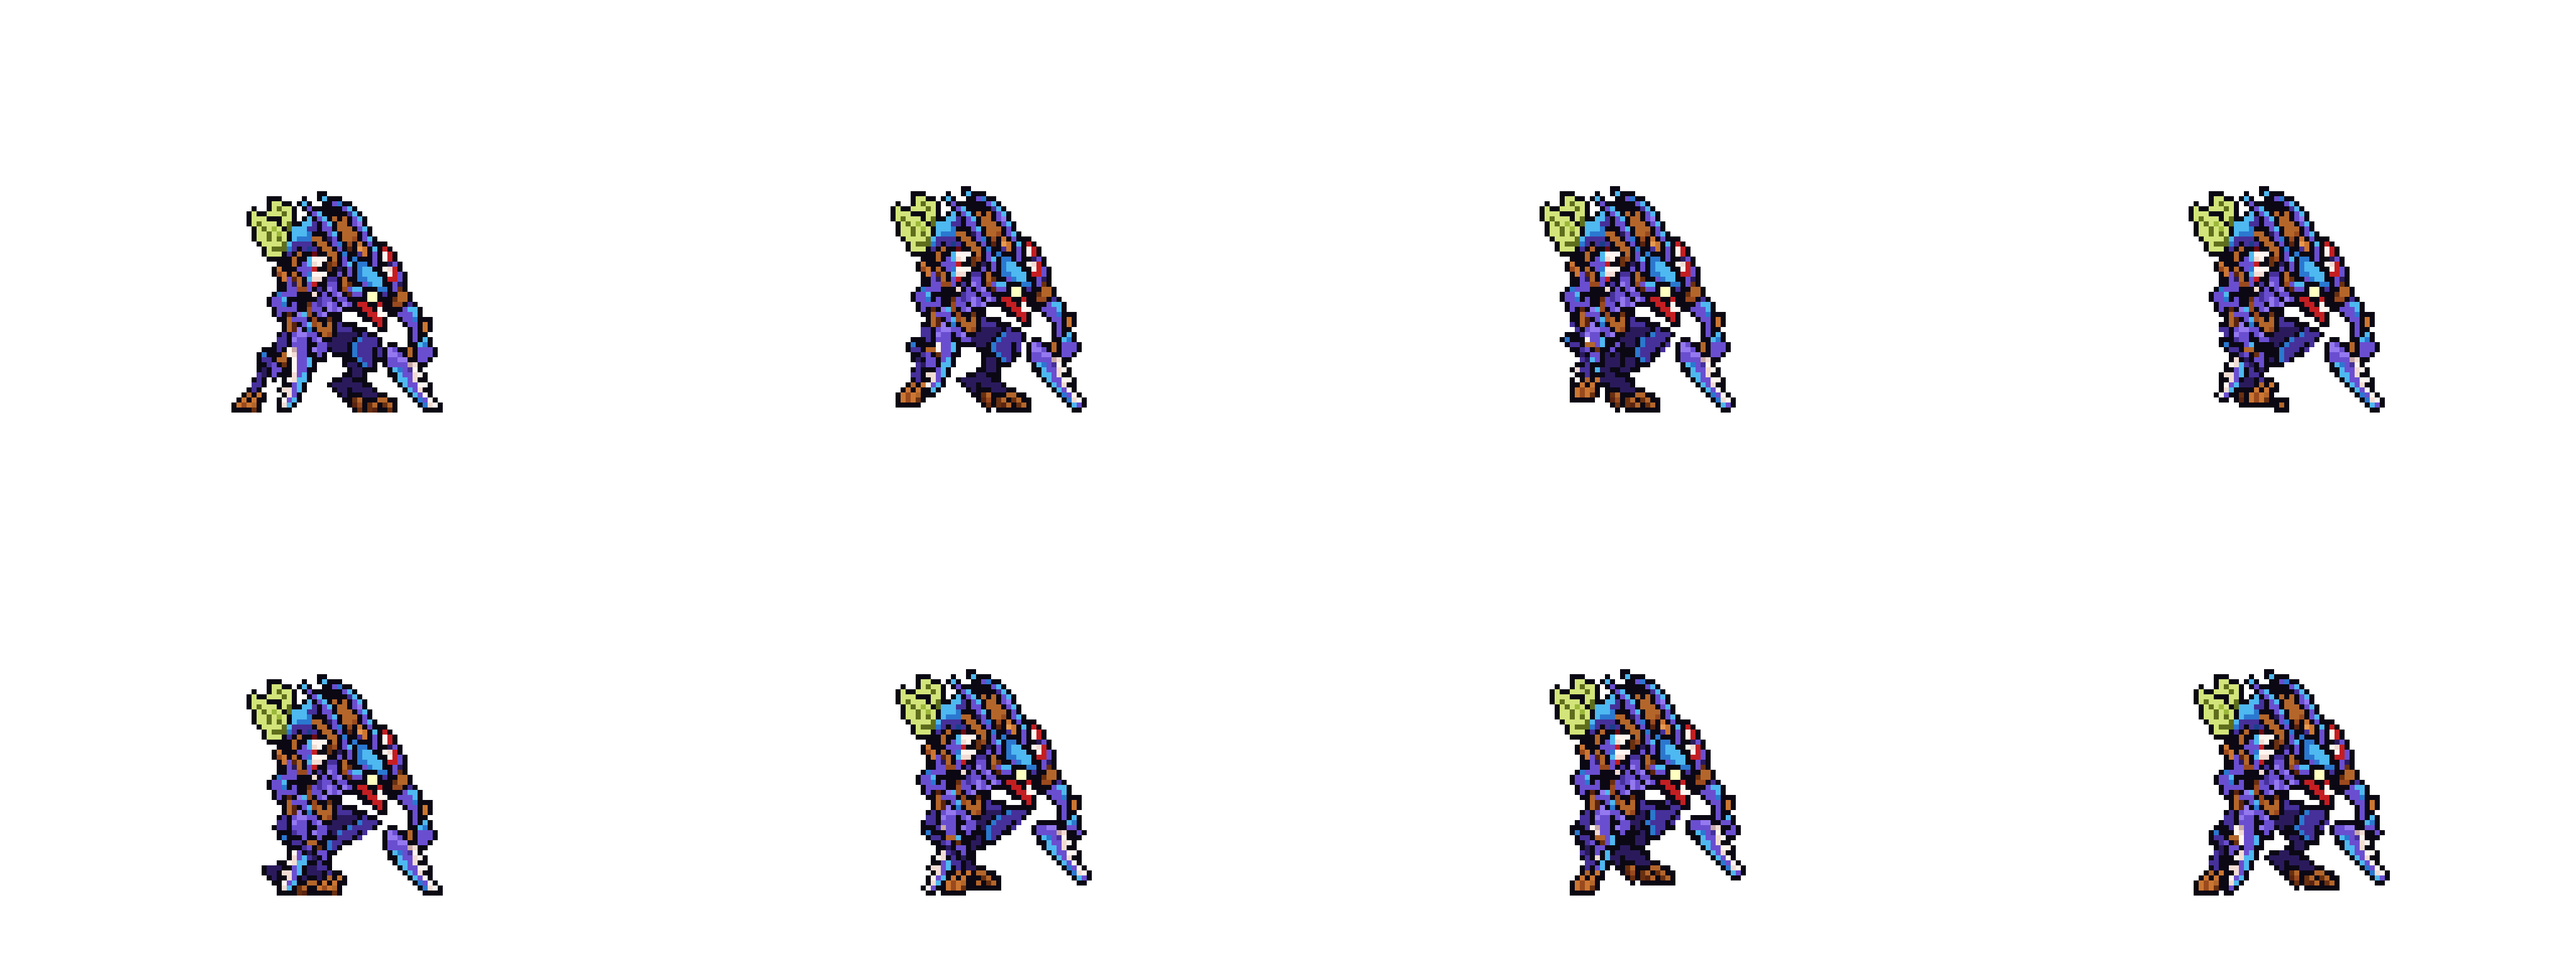
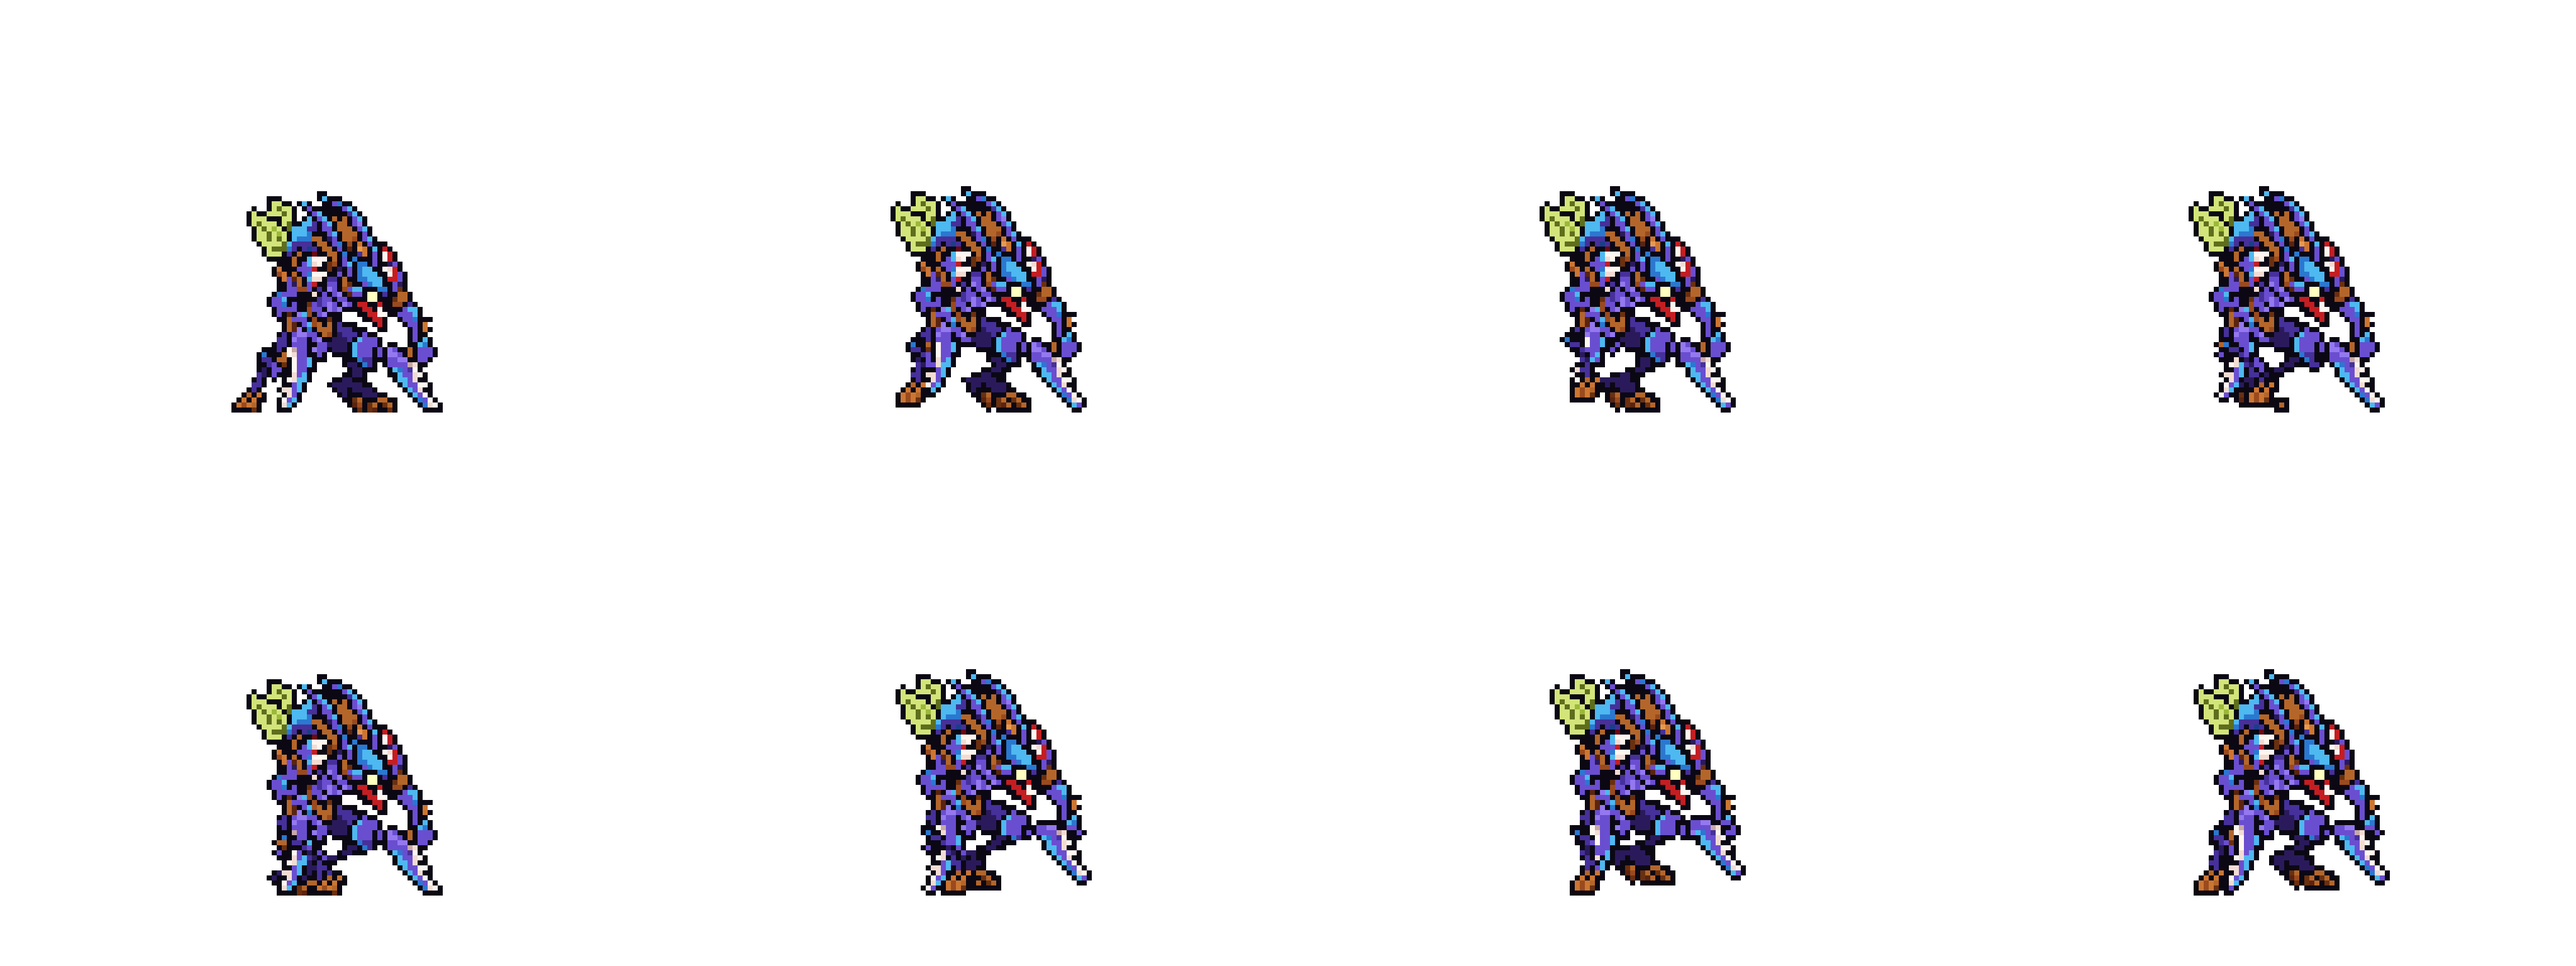
Kha'Zix run: the first run's leg shapes back (the mid leg moves under its knee, the knee stays - 「腿有变形」), only its loose pieces fixed: the arm pixels the mid leg's box took and the stray edge squares now go with their own part; no gap fill

diff --git a/tools/art/fix_khazix_strips.py b/tools/art/fix_khazix_strips.py
@@ -53,7 +53,7 @@ DEAD = ["codex", "codex", ("tilt", 45, -6), ("lying", 1, -8), ("lying", 0, -8), 
 
 # ---- the run (the design's canvas: soles on row 99)
 NEAR_HIP, NEAR_FOOT = 84, 95        # the image-left leg: from its hip (hidden under the body) to the toe claws' rows
-FAR_HIP, FAR_FOOT = 84, 94          # the mid leg, whole from its hip (from row 89 only, it broke as it swung)
+FAR_HIP, FAR_FOOT = 89, 95          # the mid leg from under the knee (the knee stays on the body, as the user saw it)
 CLAW_ROW = 88                       # the claws' parts from this row down lift off the ground
 # per frame: near foot dx, near lift, far foot dx, far lift, back-claw lift, front-claw lift, body bob (rows down)
 STRIDE = [(0, 0, 0, 0, 0, 0, 1), (4, 1, -3, 0, 2, 0, 0), (9, 2, -7, 0, 3, 0, 0), (14, 1, -11, 0, 2, 0, 0),
@@ -89,25 +89,31 @@ TORSO_LOW = 88                      # above this row a square no part holds is t
 
 
 def leg_masks(d):
-    """near (the lit image-left leg), far (the shaded mid leg), back / front (the claws' parts from CLAW_ROW down).
-    The squares under TORSO_LOW that no part holds (outline beside a leg or a claw) go to the part they touch most."""
+    """near (the lit image-left leg), far (the shaded mid leg under its knee), back / front (the claws' parts from
+    CLAW_ROW down): the first run's boxes (the user's 「之前那一版只是腿部有像素缺失」 - their shapes stay), with Codex's
+    exact arm outlines taken out of the leg boxes (the mid leg's box took a piece of the image-right arm along) and the
+    squares under CLAW_ROW that no box held (claw-edge and outline squares that stayed behind as loose pieces when the
+    legs moved) given to the part they touch most."""
     op = d[..., 3] > 0
+    yy, xx = np.mgrid[0:d.shape[0], 0:d.shape[1]]
+    bone = np.zeros(op.shape, bool)
+    for c in BONE:
+        bone |= (d[..., :3] == c).all(-1)
     head = np.asarray(Image.open(HEAD).convert("RGBA"))[..., 3] > 0
     back_arm = _rows(ARM_BACK, op) & ~head
     front_arm = _rows(ARM_FRONT, op) & ~head
-    near = _rows(LEG_LEFT, op) & ~(back_arm | front_arm | head)
-    far = _rows(LEG_MID, op) & ~(back_arm | front_arm | head | near)
-    parts = [near, far, back_arm, front_arm]
-    left = op & ~(near | far | back_arm | front_arm | head)
-    left[:TORSO_LOW] = False
+    near = op & ~bone & (((yy >= NEAR_HIP) & (xx <= 55)) | ((yy >= 82) & (yy < NEAR_HIP) & (xx >= 52) & (xx <= 55)))
+    near &= ~back_arm
+    far = op & ~bone & (yy >= FAR_HIP) & (xx >= 63) & (xx <= 80) & ~front_arm & ~back_arm
+    back = op & ~near & ~far & (yy >= CLAW_ROW) & ((xx >= 53) & (xx <= 63) | back_arm)
+    front = op & ~near & ~far & ~back & (yy >= CLAW_ROW) & ((xx >= 75) | front_arm)
+    parts = [near, far, back, front]
+    left = op & ~(near | far | back | front | head) & (yy >= CLAW_ROW)
     for y, x in zip(*np.nonzero(left)):
         touch = [sum(int(m[y + dy, x + dx]) for dy in (-1, 0, 1) for dx in (-1, 0, 1)
                      if 0 <= y + dy < op.shape[0] and 0 <= x + dx < op.shape[1]) for m in parts]
         if max(touch):
             parts[touch.index(max(touch))][y, x] = True
-    yy = np.mgrid[0:op.shape[0], 0:op.shape[1]][0]
-    back = back_arm & (yy >= CLAW_ROW)
-    front = front_arm & (yy >= CLAW_ROW)
     return near, far, back, front
 
 
@@ -173,29 +179,6 @@ def swung(d, mask, hip, foot, dx, lift, drop, shade=None):
     return out
 
 
-UNDERSIDE = (42, 26, 92)            # the design's darkest violet (#2A1A5C): the body's underside, the mid leg's shade
-
-
-def closed_gaps(a, d, drop, outline):
-    """Gaps the moving legs close off under the body (the ground showing through the middle of him) take back the
-    idle's own squares at that spot - the body's underside and the mid leg's top there - never a flat colour; the
-    design's own gaps (beside the jaw, partly covered while the front claw lifts) stay open."""
-    own = set()
-    for comp in K.holes(K.finish(d, outline, SOLES)):
-        for y, x in comp:
-            for dy in (-1, 0, 1, 2, 3):
-                own.add((y + dy, x))
-    for comp in K.holes(a):
-        if own & set(comp):
-            continue
-        for y, x in comp:
-            src = d[y - drop, x] if 0 <= y - drop < d.shape[0] else d[y, x]
-            # the idle's outline squares there would make a black patch inside him: the underside's dark indigo
-            dark = not src[3] or tuple(int(v) for v in src[:3]) == tuple(outline)
-            a[y, x] = np.array(UNDERSIDE + (255,), np.uint8) if dark else src
-    return K.finish(a, outline, SOLES)
-
-
 def run_frame(d, k, masks, shade):
     near, far, back, front = masks
     nd, nl, fd, fl, bl, frl, bob = STRIDE[k]
@@ -259,7 +242,7 @@ def main():
             cols = sheet.shape[1] // cw
             masks, shade = leg_masks(design), darker(design)
             for i in range(len(STRIDE)):
-                fig = closed_gaps(K.finish(run_frame(design, i, masks, shade), ink, SOLES), design, STRIDE[i][6], ink)
+                fig = K.finish(run_frame(design, i, masks, shade), ink, SOLES)
                 X, Y = (i % cols) * cw, (i // cols) * ch
                 px, py = cells["tags"][tag][i]["pivot"]
                 cell = np.zeros((ch, cw, 4), np.uint8)
